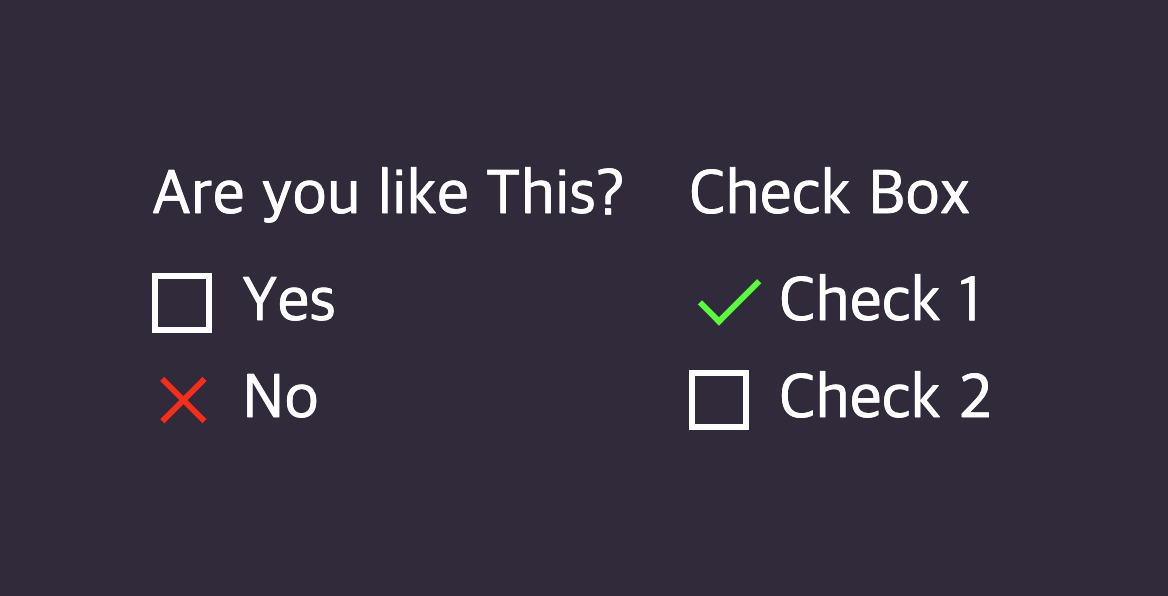
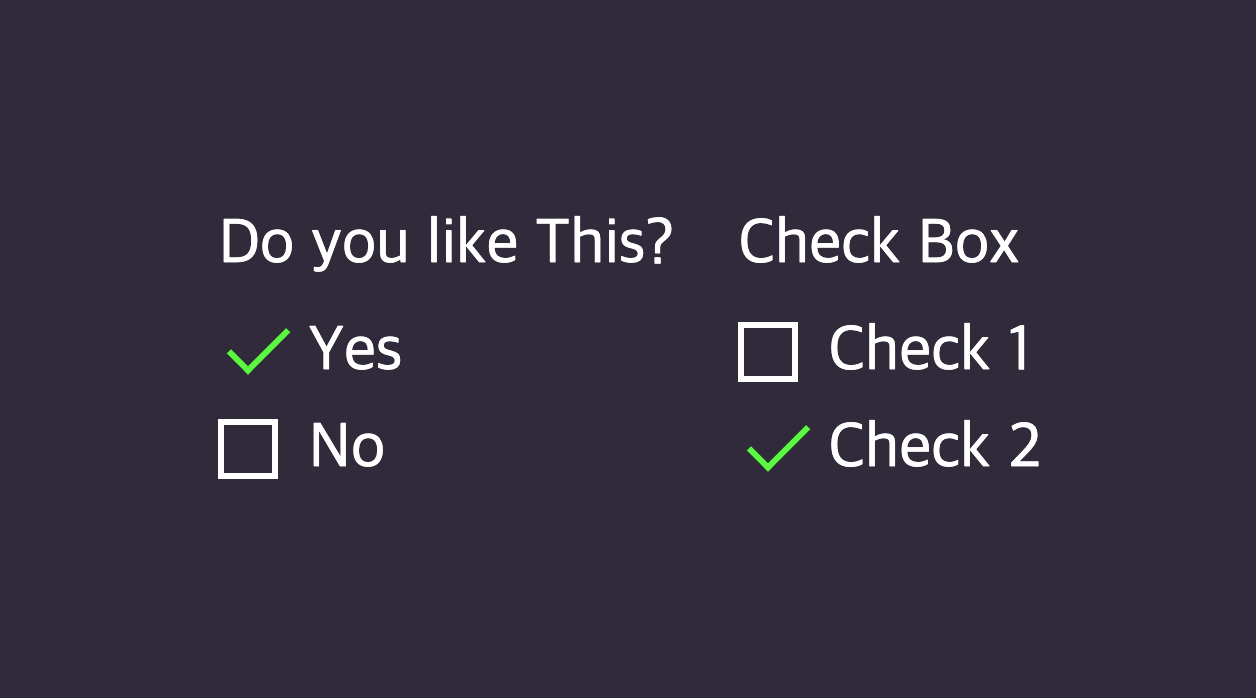
File Drag and Drop

diff --git a/Interactions/File DragNDrop/script.js b/Interactions/File DragNDrop/script.js
@@ -1,0 +1,51 @@
+const dropArea = document.querySelector('.drag-area');
+const dragText = dropArea.querySelector('header');
+const button = dropArea.querySelector('button');
+const input = dropArea.querySelector('input');
+
+let file;
+
+button.onclick = () => {
+  input.click();
+};
+
+input.addEventListener('change', function () {
+  file = this.files[0];
+  showFile();
+  dropArea.classList.add('active');
+});
+
+dropArea.addEventListener('dragover', (event) => {
+  event.preventDefault();
+  dropArea.classList.add('active');
+  dragText.textContent = 'Release to Upload File';
+});
+
+dropArea.addEventListener('dragleave', () => {
+  dropArea.classList.remove('active');
+  dragText.textContent = 'Drag & Drop to Upload File';
+});
+
+dropArea.addEventListener('drop', (event) => {
+  event.preventDefault();
+  file = event.dataTransfer.files[0];
+  showFile();
+});
+
+function showFile() {
+  const fileType = file.type;
+  const validExtensions = ['image/jpeg', 'image/jpg', 'image/png'];
+  if (validExtensions.includes(fileType)) {
+    const fileReader = new FileReader();
+    fileReader.onload = () => {
+      const fileUrl = fileReader.result;
+      const imgTag = `<img src=${fileUrl} alt='' />`;
+      dropArea.innerHTML = imgTag;
+    };
+    fileReader.readAsDataURL(file);
+  } else {
+    alert('This is not an Image File!');
+    dropArea.classList.remove('active');
+    dragText.textContent = 'Drag & Drop to Upload File';
+  }
+}

diff --git a/Interactions/File DragNDrop/style.css b/Interactions/File DragNDrop/style.css
@@ -1,0 +1,68 @@
+@import url('https://fonts.googleapis.com/css2?family=Poppins:wght@200;300;400;500;600;700;800;900&display=swap');
+
+* {
+  margin: 0;
+  padding: 0;
+  box-sizing: border-box;
+  font-family: 'Poppins', sans-serif;
+}
+
+body {
+  display: flex;
+  align-items: center;
+  justify-content: center;
+  min-height: 100vh;
+  background: #5256ad;
+}
+
+.drag-area {
+  border: 2px dashed #fff;
+  height: 500px;
+  width: 700px;
+  border-radius: 5px;
+  display: flex;
+  align-items: center;
+  justify-content: center;
+  flex-direction: column;
+}
+
+.drag-area.active {
+  border: 2px solid #fff;
+}
+
+.drag-area .icon {
+  font-size: 100px;
+  color: #fff;
+}
+
+.drag-area header {
+  font-size: 30px;
+  font-weight: 500;
+  color: #fff;
+}
+
+.drag-area span {
+  font-size: 25px;
+  font-weight: 500;
+  color: #fff;
+  margin: 10px 0 15px 0;
+}
+
+.drag-area button {
+  padding: 10px 25px;
+  font-size: 20px;
+  font-weight: 500;
+  border: none;
+  outline: none;
+  background: #fff;
+  color: #5256ad;
+  border-radius: 5px;
+  cursor: pointer;
+}
+
+.drag-area img {
+  width: 100%;
+  height: 100%;
+  object-fit: cover;
+  border-radius: 5px;
+}

diff --git a/Interactions/File DragNDrop/index.html b/Interactions/File DragNDrop/index.html
@@ -1,0 +1,24 @@
+<!DOCTYPE html>
+<html lang="en">
+  <head>
+    <meta charset="UTF-8" />
+    <meta http-equiv="X-UA-Compatible" content="IE=edge" />
+    <meta name="viewport" content="width=device-width, initial-scale=1.0" />
+    <link rel="stylesheet" href="style.css" />
+    <link
+      rel="stylesheet"
+      href="https://cdnjs.cloudflare.com/ajax/libs/font-awesome/6.0.0/css/all.min.css"
+    />
+    <title>Document</title>
+  </head>
+  <body>
+    <div class="drag-area">
+      <div class="icon"><i class="fas fa-cloud-upload-alt"></i></div>
+      <header>Drag & Drop to Upload File</header>
+      <span>OR</span>
+      <button>Browse File</button>
+      <input type="file" hidden />
+    </div>
+    <script src="script.js"></script>
+  </body>
+</html>

diff --git a/Interactions/RadioButton CheckBox/index.html b/Interactions/RadioButton CheckBox/index.html
@@ -9,7 +9,7 @@
   </head>
   <body>
     <div class="container">
-      <p>Are you like This?</p>
+      <p>Do you like This?</p>
       <label>
         <input type="radio" name="yesNo" />
         <span class="check"></span>
